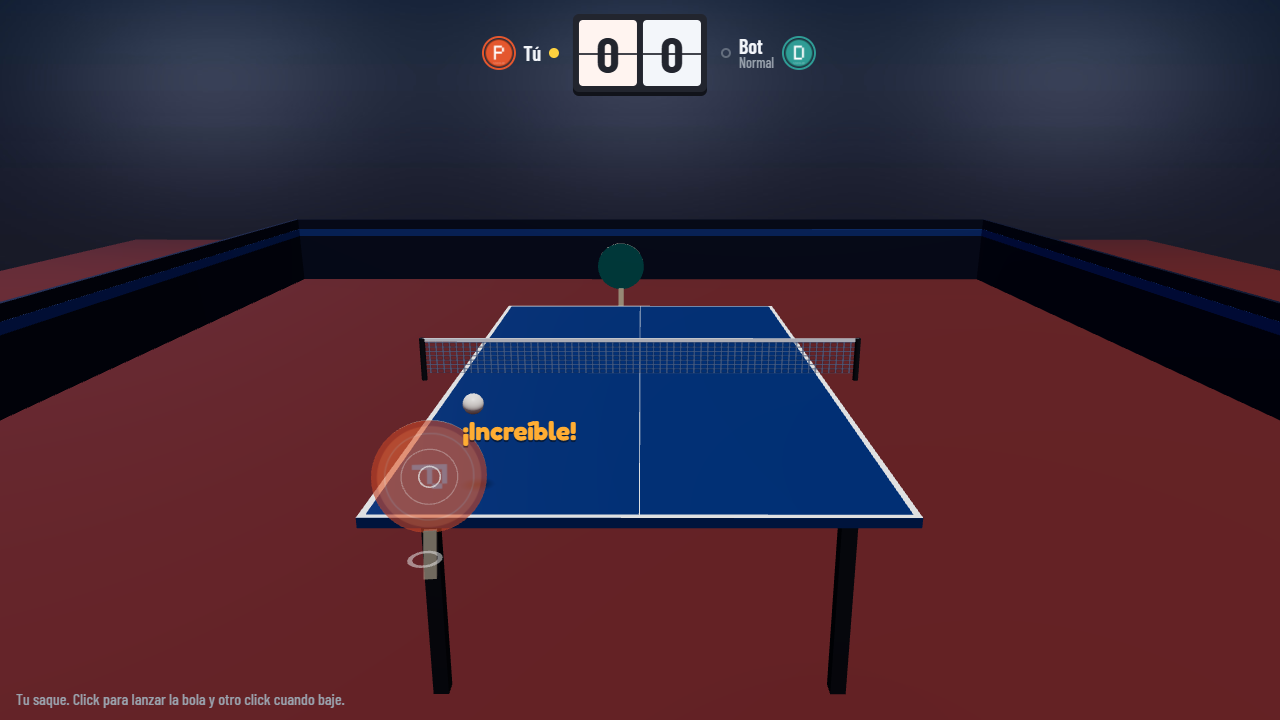
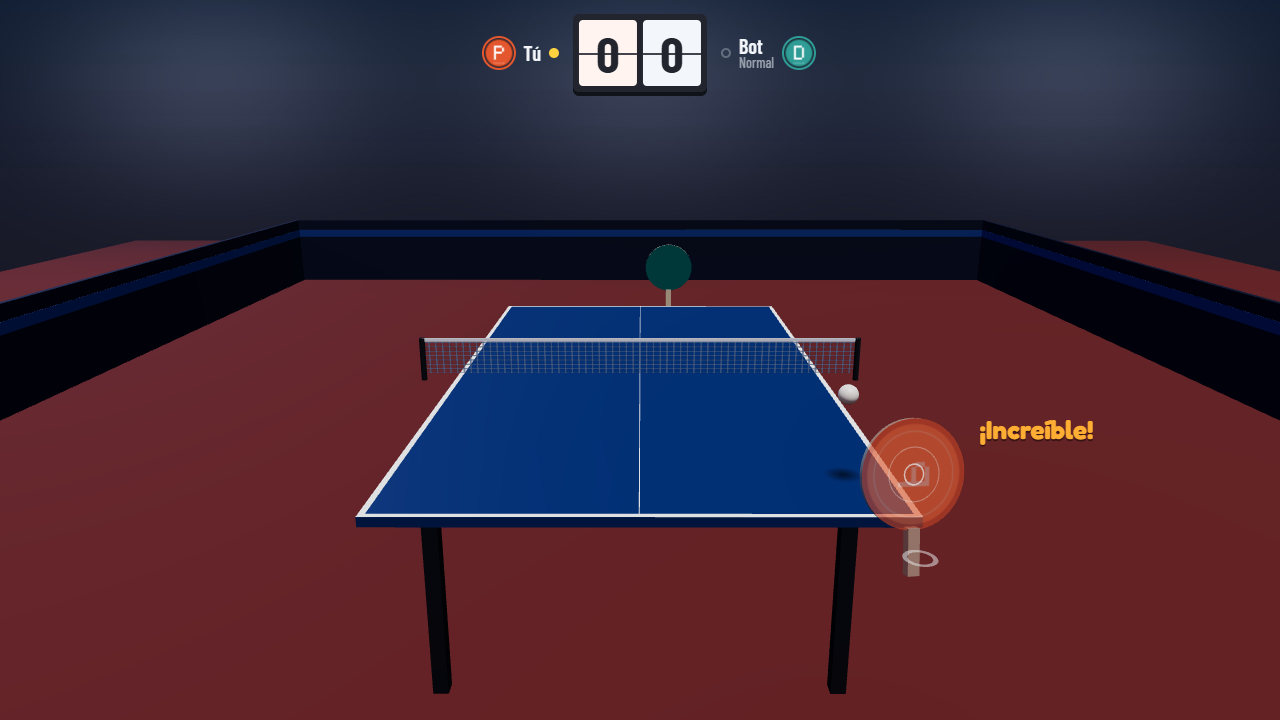
fix(client): clearer ball shadow, hint cleared in rally, audio unlock on first click

diff --git a/client/src/render/world.ts b/client/src/render/world.ts
@@ -8,7 +8,7 @@ import * as THREE from 'three';
 import { ARENA_ASSETS, assetUrl, CHARACTERS, type CharacterId } from '../assets/manifest.ts';
 
 const COLORS = {
-  table: 0x1d3f72,
+  table: 0x24508c,
   line: 0xf3f6fa,
   floor: 0x6e2b27,
   surround: 0x18233d,
@@ -315,7 +315,7 @@ export class World {
     this.shadow.visible = f.ball.visible;
     this.shadow.position.set(f.ball.x, groundY + 0.0015, f.ball.z);
     this.shadow.scale.setScalar(r * (1.6 + height * 1.4));
-    this.shadowMat.opacity = Math.max(0.32, 0.85 - height * 0.8);
+    this.shadowMat.opacity = Math.max(0.45, 0.95 - height * 0.7);
 
     this.paddles[0].update(f.paddles[0]);
     this.paddles[1].update(f.paddles[1]);

diff --git a/client/src/game/game.ts b/client/src/game/game.ts
@@ -93,6 +93,8 @@ export class Game {
     window.addEventListener('resize', resize);
     resize();
     window.addEventListener('keydown', (e) => this.onKey(e));
+    // El audio solo puede arrancar tras un gesto del usuario (también con ?autostart=1).
+    canvas.addEventListener('pointerdown', () => void this.audio.unlock());
     window.addEventListener('blur', () => this.running && !this.paused && this.pause());
 
     if (settings.autostart) this.start(this.difficulty);
